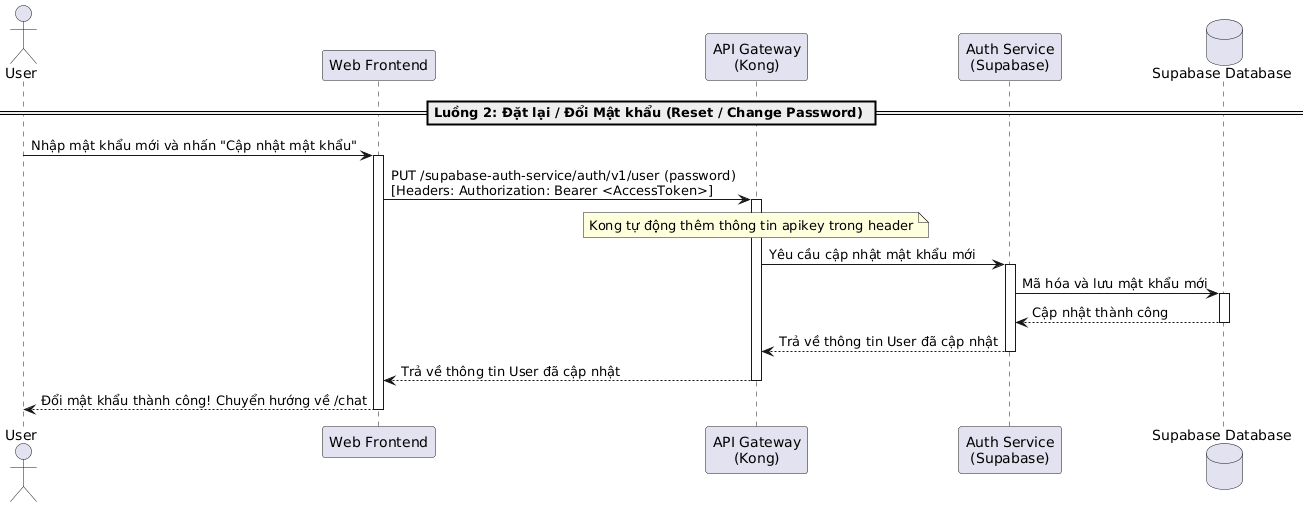
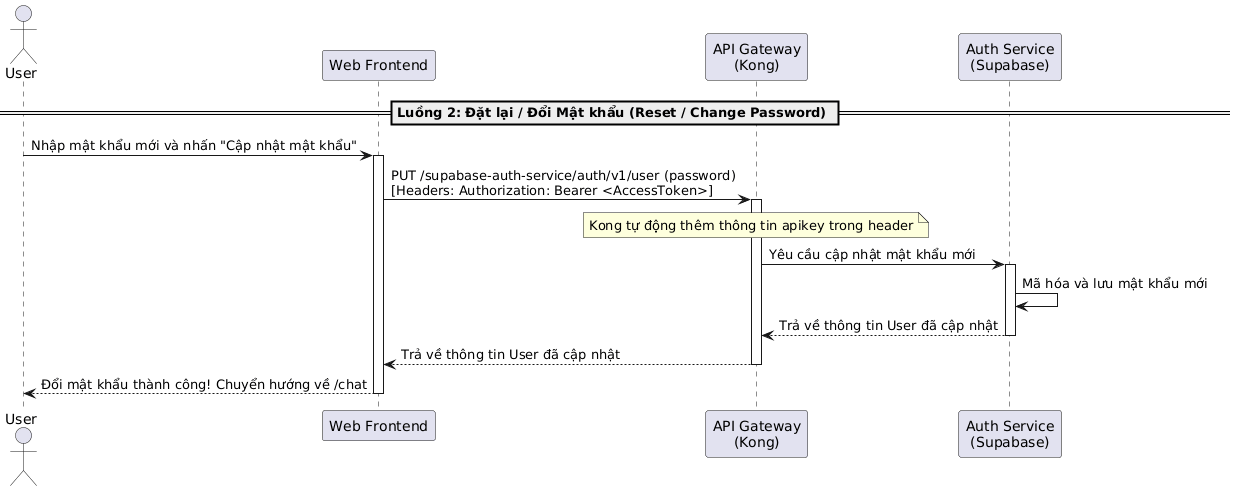
2

diff --git a/latex/contents/Sequence/UML-Sequence-UserResetChangePassword.tex b/latex/contents/Sequence/UML-Sequence-UserResetChangePassword.tex
@@ -5,7 +5,7 @@ quá trình cập nhật trực tiếp mật khẩu mới của người dùng l
 
 \begin{figure}[H]
 \centering
-\includegraphics[scale = 0.18]{contents/Sequence/UML-Sequence-UserResetChangePassword.png}
+\includegraphics[scale = 0.2]{contents/Sequence/UML-Sequence-UserResetChangePassword.png}
 \caption{Sơ đồ tuần tự luồng Đặt lại / Đổi Mật khẩu}
 \end{figure}
 
@@ -14,21 +14,22 @@ quá trình cập nhật trực tiếp mật khẩu mới của người dùng l
 \begin{table}[H]
 \centering
 \renewcommand{\arraystretch}{1.3}
+
 \begin{tabular}{|l|l|p{5cm}|}
 \hline
 \textbf{Thành phần} & \textbf{Phân loại} & \textbf{Vai trò trong hệ thống} \\ \hline
 User & Actor & Người dùng thực hiện đặt lại mật khẩu mới. \\ \hline
 Web Frontend & Component & Giao diện web Next.js. \\ \hline %%%% Component & Giao diện Next.js thu nhận mật khẩu mới và gửi yêu cầu đổi mật khẩu. \\ \hline
 API Gateway (Kong) & Component & Cổng API chuyển tiếp các yêu cầu API. \\ \hline %%%% Component & Định tuyến yêu cầu cập nhật thông tin người dùng. \\ \hline
-Auth Service (Supabase) & Microservice & Dịch vụ Supabase Auth xác thực phiên và mã hóa lưu mật khẩu mới. \\ \hline
-Supabase Database & Database & Lưu trữ băm mật khẩu mới của người dùng. \\ \hline
+Auth Service (Supabase) & Microservice & Dịch vụ Supabase Auth xác thực phiên, thực hiện mã hóa và lưu mật khẩu mới. \\ \hline
 \end{tabular}
 \caption{Các thành phần tham gia luồng Đặt lại / Đổi Mật khẩu}
 \end{table}
 
 \subparagraph{Mô tả tổng quan}
+
 \begin{itemize}
 \item Tại giao diện đổi mật khẩu, người dùng nhập mật khẩu mới.
 \item Frontend gửi yêu cầu \texttt{PUT /auth/v1/user} kèm theo mật khẩu mới qua Gateway đến Auth Service (kèm Access Token hợp lệ trong Header Authorization).
-\item Auth Service xác minh token, băm mật khẩu mới và cập nhật trong Supabase Database, sau đó trả về bản ghi thành công để Frontend chuyển hướng người dùng vào \texttt{/chat}.
+\item Auth Service xác minh token, tự thực hiện mã hóa và lưu mật khẩu mới, sau đó trả về thông tin cập nhật để Frontend chuyển hướng người dùng vào \texttt{/chat}.
 \end{itemize}

diff --git a/sequence.py b/sequence.py
@@ -20,8 +20,8 @@ file_path = r"C:\Users\Admin\Documents\GitHub\docs-latex\latex\contents\Sequence
 file_path = r"C:\Users\Admin\Documents\GitHub\docs-latex\latex\contents\Sequence\UML-Sequence-UserResetChangePassword.tex"
 
 
-# file_path = r"C:\Users\Admin\Documents\GitHub\docs-latex\latex\contents\Sequence\UML-Sequence-UserGetSettings.tex"
-# file_path = r"C:\Users\Admin\Documents\GitHub\docs-latex\latex\contents\Sequence\UML-Sequence-UserUpdateSettings.tex"
+file_path = r"C:\Users\Admin\Documents\GitHub\docs-latex\latex\contents\Sequence\UML-Sequence-UserGetSettings.tex"
+file_path = r"C:\Users\Admin\Documents\GitHub\docs-latex\latex\contents\Sequence\UML-Sequence-UserUpdateSettings.tex"
 
 
 # file_path = r"C:\Users\Admin\Documents\GitHub\docs-latex\latex\contents\Sequence\UML-Sequence-UserTextChatSse.tex"

diff --git a/latex/contents/So_do_tuan_tu_Sequence_Diagram.tex b/latex/contents/So_do_tuan_tu_Sequence_Diagram.tex
@@ -16,10 +16,10 @@
 
 % \input{contents/Sequence/UML-Sequence-UserForgotPasswordRequest.tex}
 % \input{contents/Sequence/UML-Sequence-UserEmailLinkVerificationRedirect.tex}
-\input{contents/Sequence/UML-Sequence-UserResetChangePassword.tex}
+% \input{contents/Sequence/UML-Sequence-UserResetChangePassword.tex}
 
-% \input{contents/Sequence/UML-Sequence-UserGetSettings.tex}
-% \input{contents/Sequence/UML-Sequence-UserUpdateSettings.tex}
+\input{contents/Sequence/UML-Sequence-UserGetSettings.tex}
+\input{contents/Sequence/UML-Sequence-UserUpdateSettings.tex}
 
 % \input{contents/Sequence/UML-Sequence-UserTextChatSse.tex}
 % \input{contents/Sequence/UML-Sequence-UserDeleteChat.tex}
